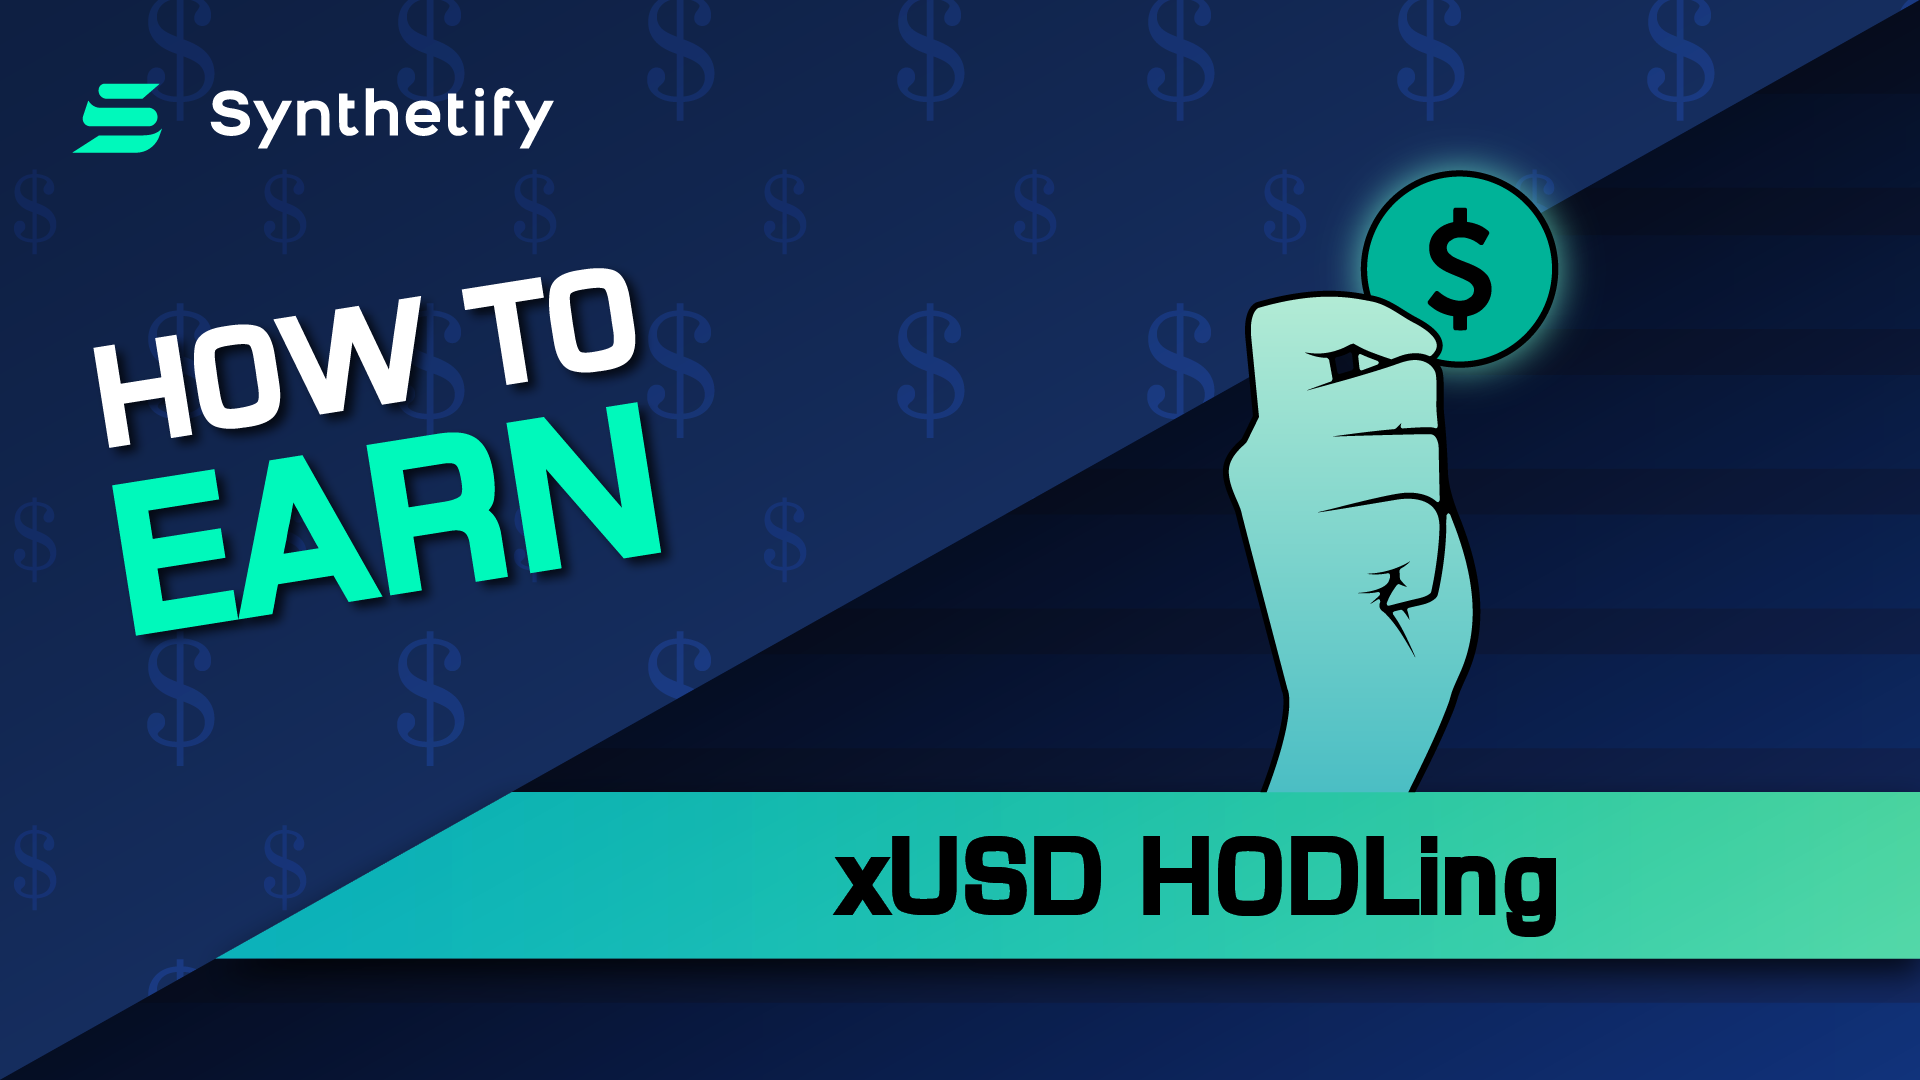
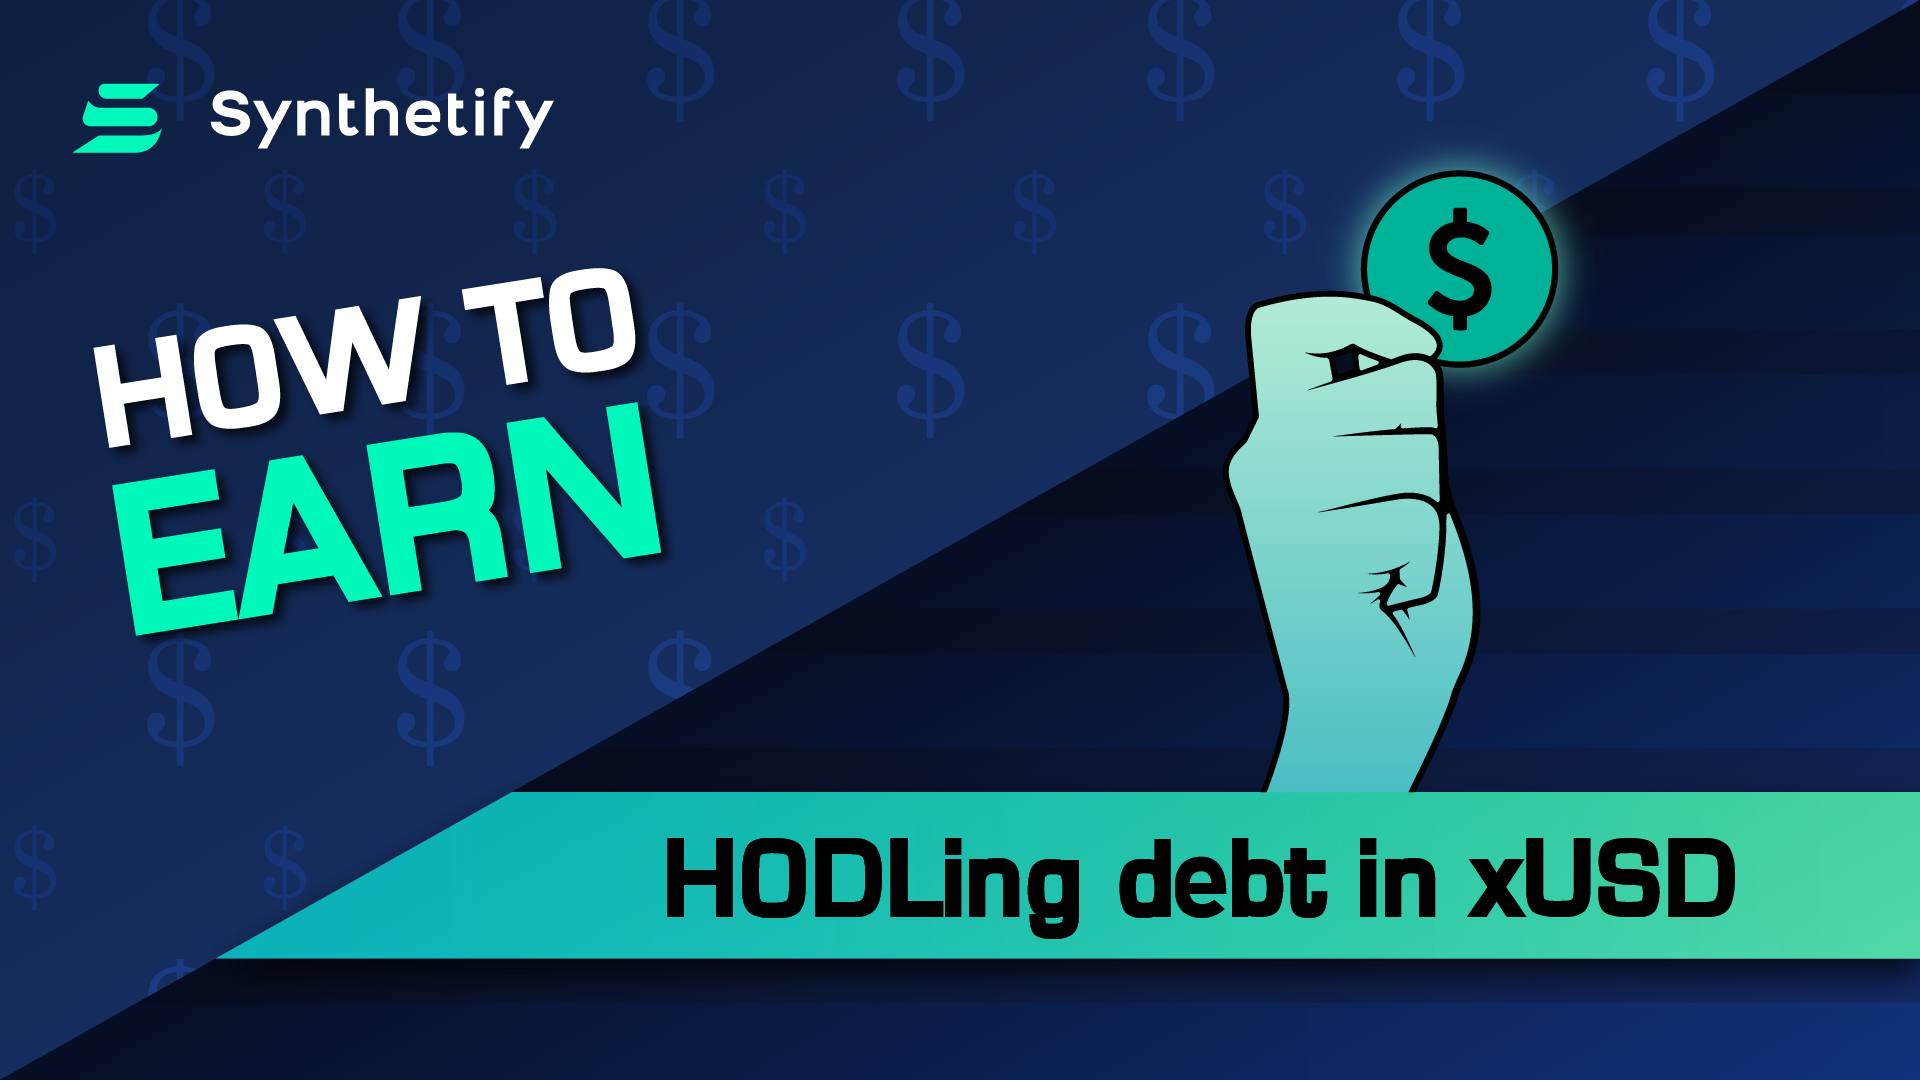
add debt

Changed region(s): [[0.3438, 0.7639, 0.9062, 0.8861]]

diff --git a/src/blogPosts/how-to-earn-5.md b/src/blogPosts/how-to-earn-5.md
@@ -1,14 +1,14 @@
 ---
-title: 'How to earn #5: Holding xUSD'
-date: '2022-05-10 12:00:00'
-description: 'The risks and benefits of holding xUSD.'
+title: 'How to earn #5: Holding debt in xUSD'
+date: '2022-05-11 12:00:00'
+description: 'The risks and benefits of holding debt in xUSD.'
 image: '/blog/how-to-earn-5/1.png'
 ---
 
 ![Holding xUSD](/blog/how-to-earn-5/1.png 'horizontal')
 
 gm 👋  
-In this part of How to Earn series, we will explain to you how to maximalize your profits by holding xUSD.
+In this part of How to Earn series, we will explain to you how to maximalize your profits by holding your debt in xUSD.
 
 ## What is HODLing?
 
@@ -17,11 +17,11 @@ as you can guess a long term.
 
 ## What are the risks?
 
-Even though holding can maximize your profits, you have to remember that by holding only xUSD on our platform, you risk losing in case of other synthetics increases. 📈
+Even though holding can maximize your profits, you have to remember that by holding debt only in xUSD on our platform, you risk losing in case of other synthetics increases. 📈
 
 Why?
 
-**When you hold xUSD, you play against all other synthetic tokens.** You bet their value will decrease, so you basically play short on them. It is a great way to earn when you’re feeling bearish and think that the token is going to decrease.
+**When your whole debt is in xUSD, you play against all other synthetic assets.** You bet their value will decrease, so you basically play short on them. It is a great way to earn when you’re feeling bearish and think that the token is going to decrease.
 
 Look at the example which explaining the core mechanism of profits and the risks while participating in the debt pool below ⬇
 
